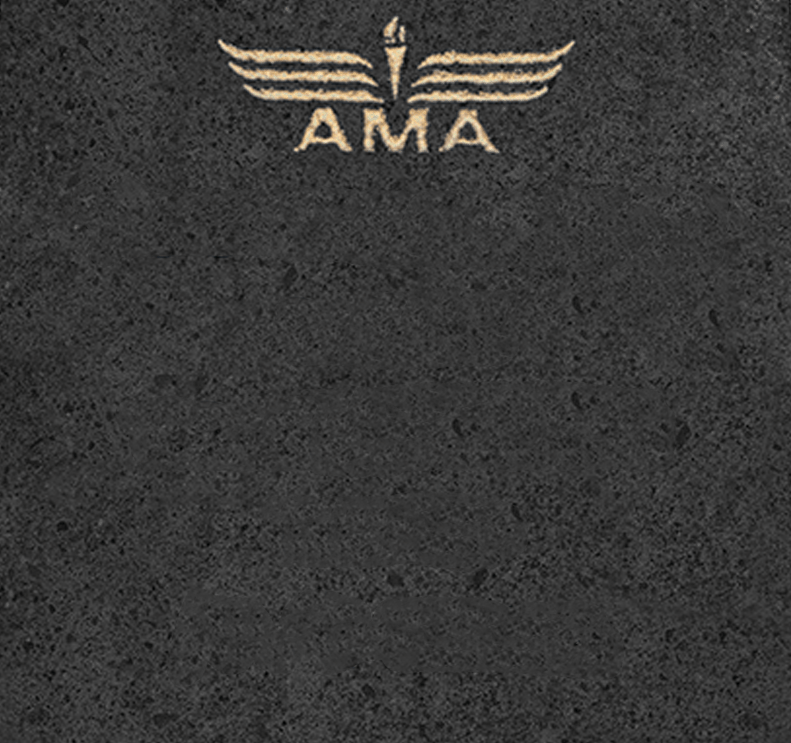
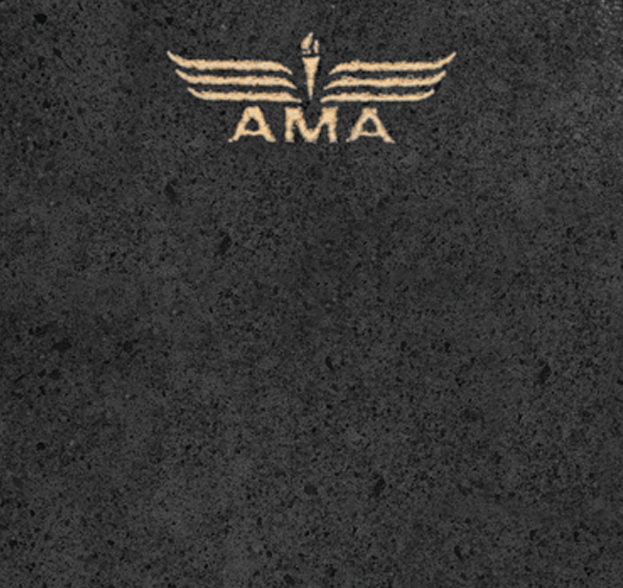
change full brick size

diff --git a/src/css/react_bricks.css b/src/css/react_bricks.css
@@ -19,8 +19,8 @@
 } */
 
 .brick-wrapper-100 {
-  width: 1000px;
-  height: 500px;
+  width: 500px;
+  height: 250px;
   margin: 0px 0px 20px 0px;
   background-image: url(../images/brick-100.png);
   background-image: -webkit-image-set(url(../images/brick-100.webp) 1x);
@@ -36,8 +36,8 @@
 }
 
 .brick-wrapper-500 {
-  width: 1000px;
-  height: 500px;
+  width: 500px;
+  height: 250px;
   margin: 0px 0px 20px 0px;
   background-image: url(../images/brick-500.png);
   background-image: -webkit-image-set(url(../images/brick-500.webp) 1x);
@@ -53,8 +53,8 @@
 }
 
 .brick-wrapper-1000 {
-  width: 1000px;
-  height: 1000px;
+  width: 500px;
+  height: 500px;
   margin: 0px 0px 20px 0px;
   background-image: url(../images/brick-1000.png);
   background-image: -webkit-image-set(url(../images/brick-1000.webp) 1x);
@@ -149,7 +149,7 @@
 }
 
  .brick-contents-1000 {
-  height: 150px;
+  height: 100px;
 }
 
 @media (max-width: 499px) {
@@ -158,30 +158,26 @@
     }
   }
 
-.brick-contents-view {
-  /*height: 0px;*/
-}
 
 .brick-contents-view-1000 {
-  /*height: 90px;*/
   padding-bottom: 3px;
 }
 
 .brick-text-100 {
   color: #192120 !important;
-  font-size: 4.5rem !important;
+  font-size: 2.5rem !important;
   font-weight: bold;
 }
 
 .brick-text-500 {
   color: #e2cea2 !important;
-  font-size: 4.5rem !important;
+  font-size: 2.5rem !important;
   font-weight: bold;
 }
 
 .brick-text-1000 {
   color: #e2cea2 !important;
-  font-size: 6rem !important;
+  font-size: 2.5rem !important;
   font-weight: bold;
 }
 
